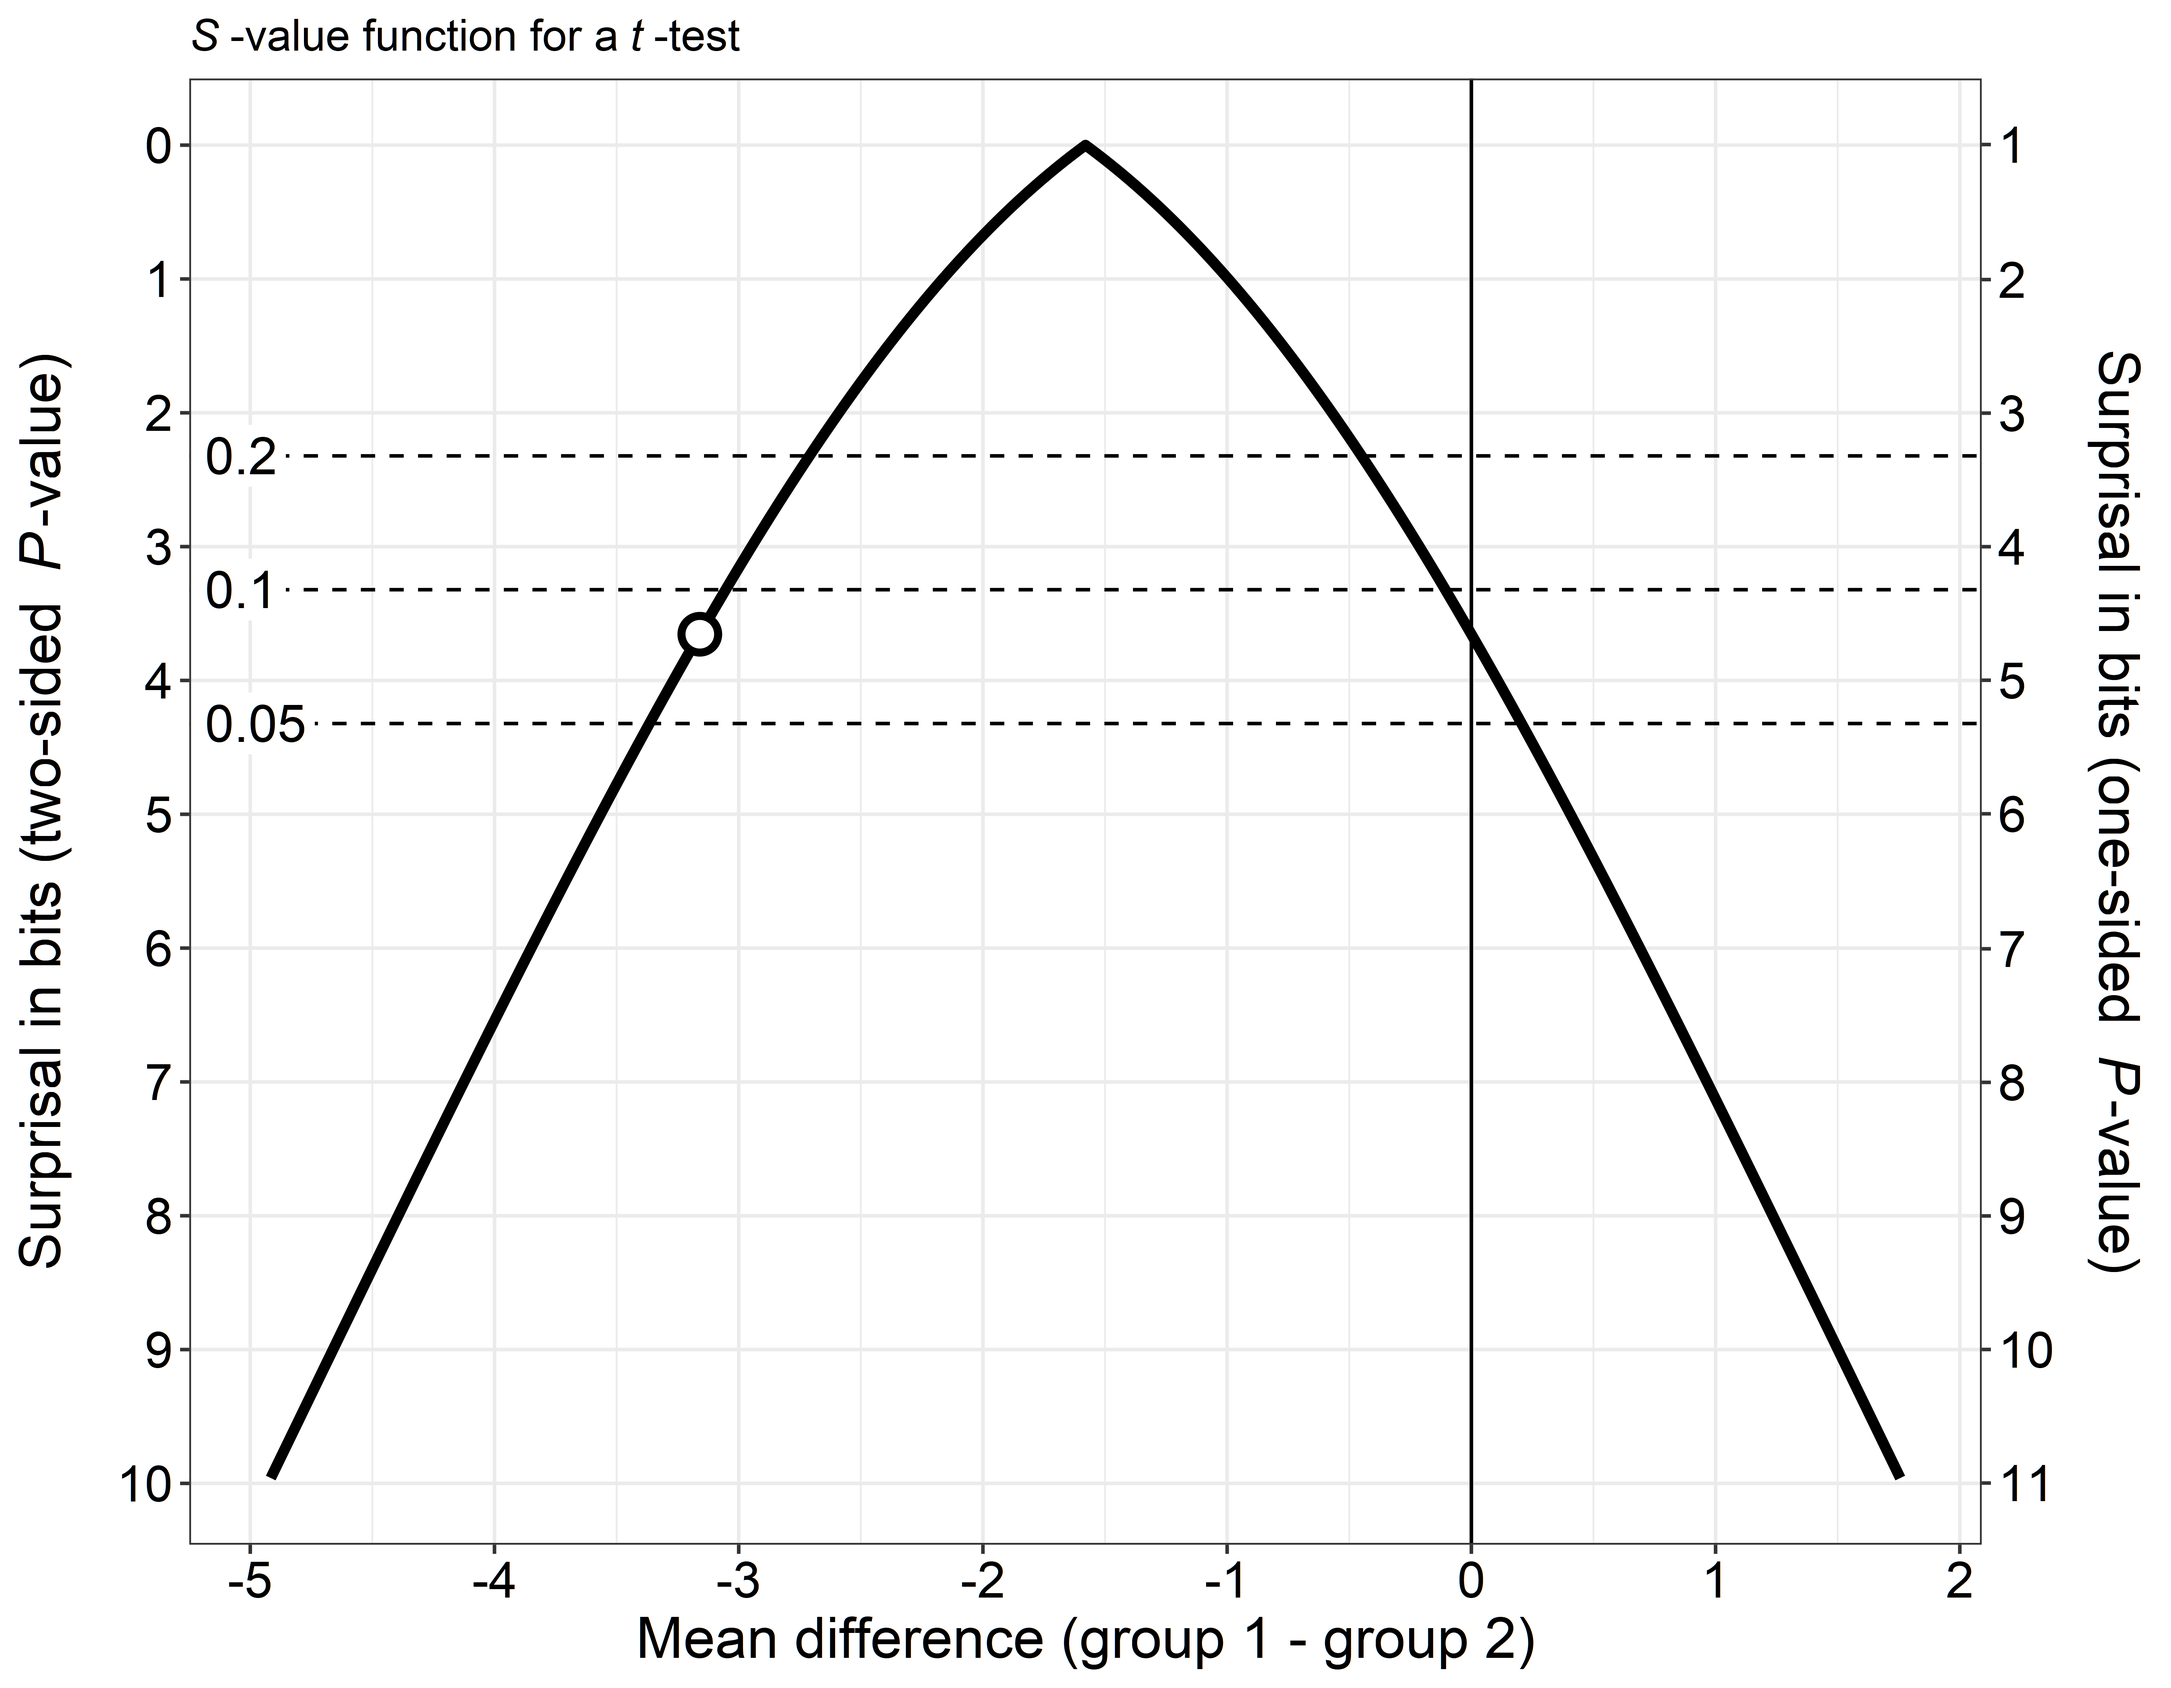
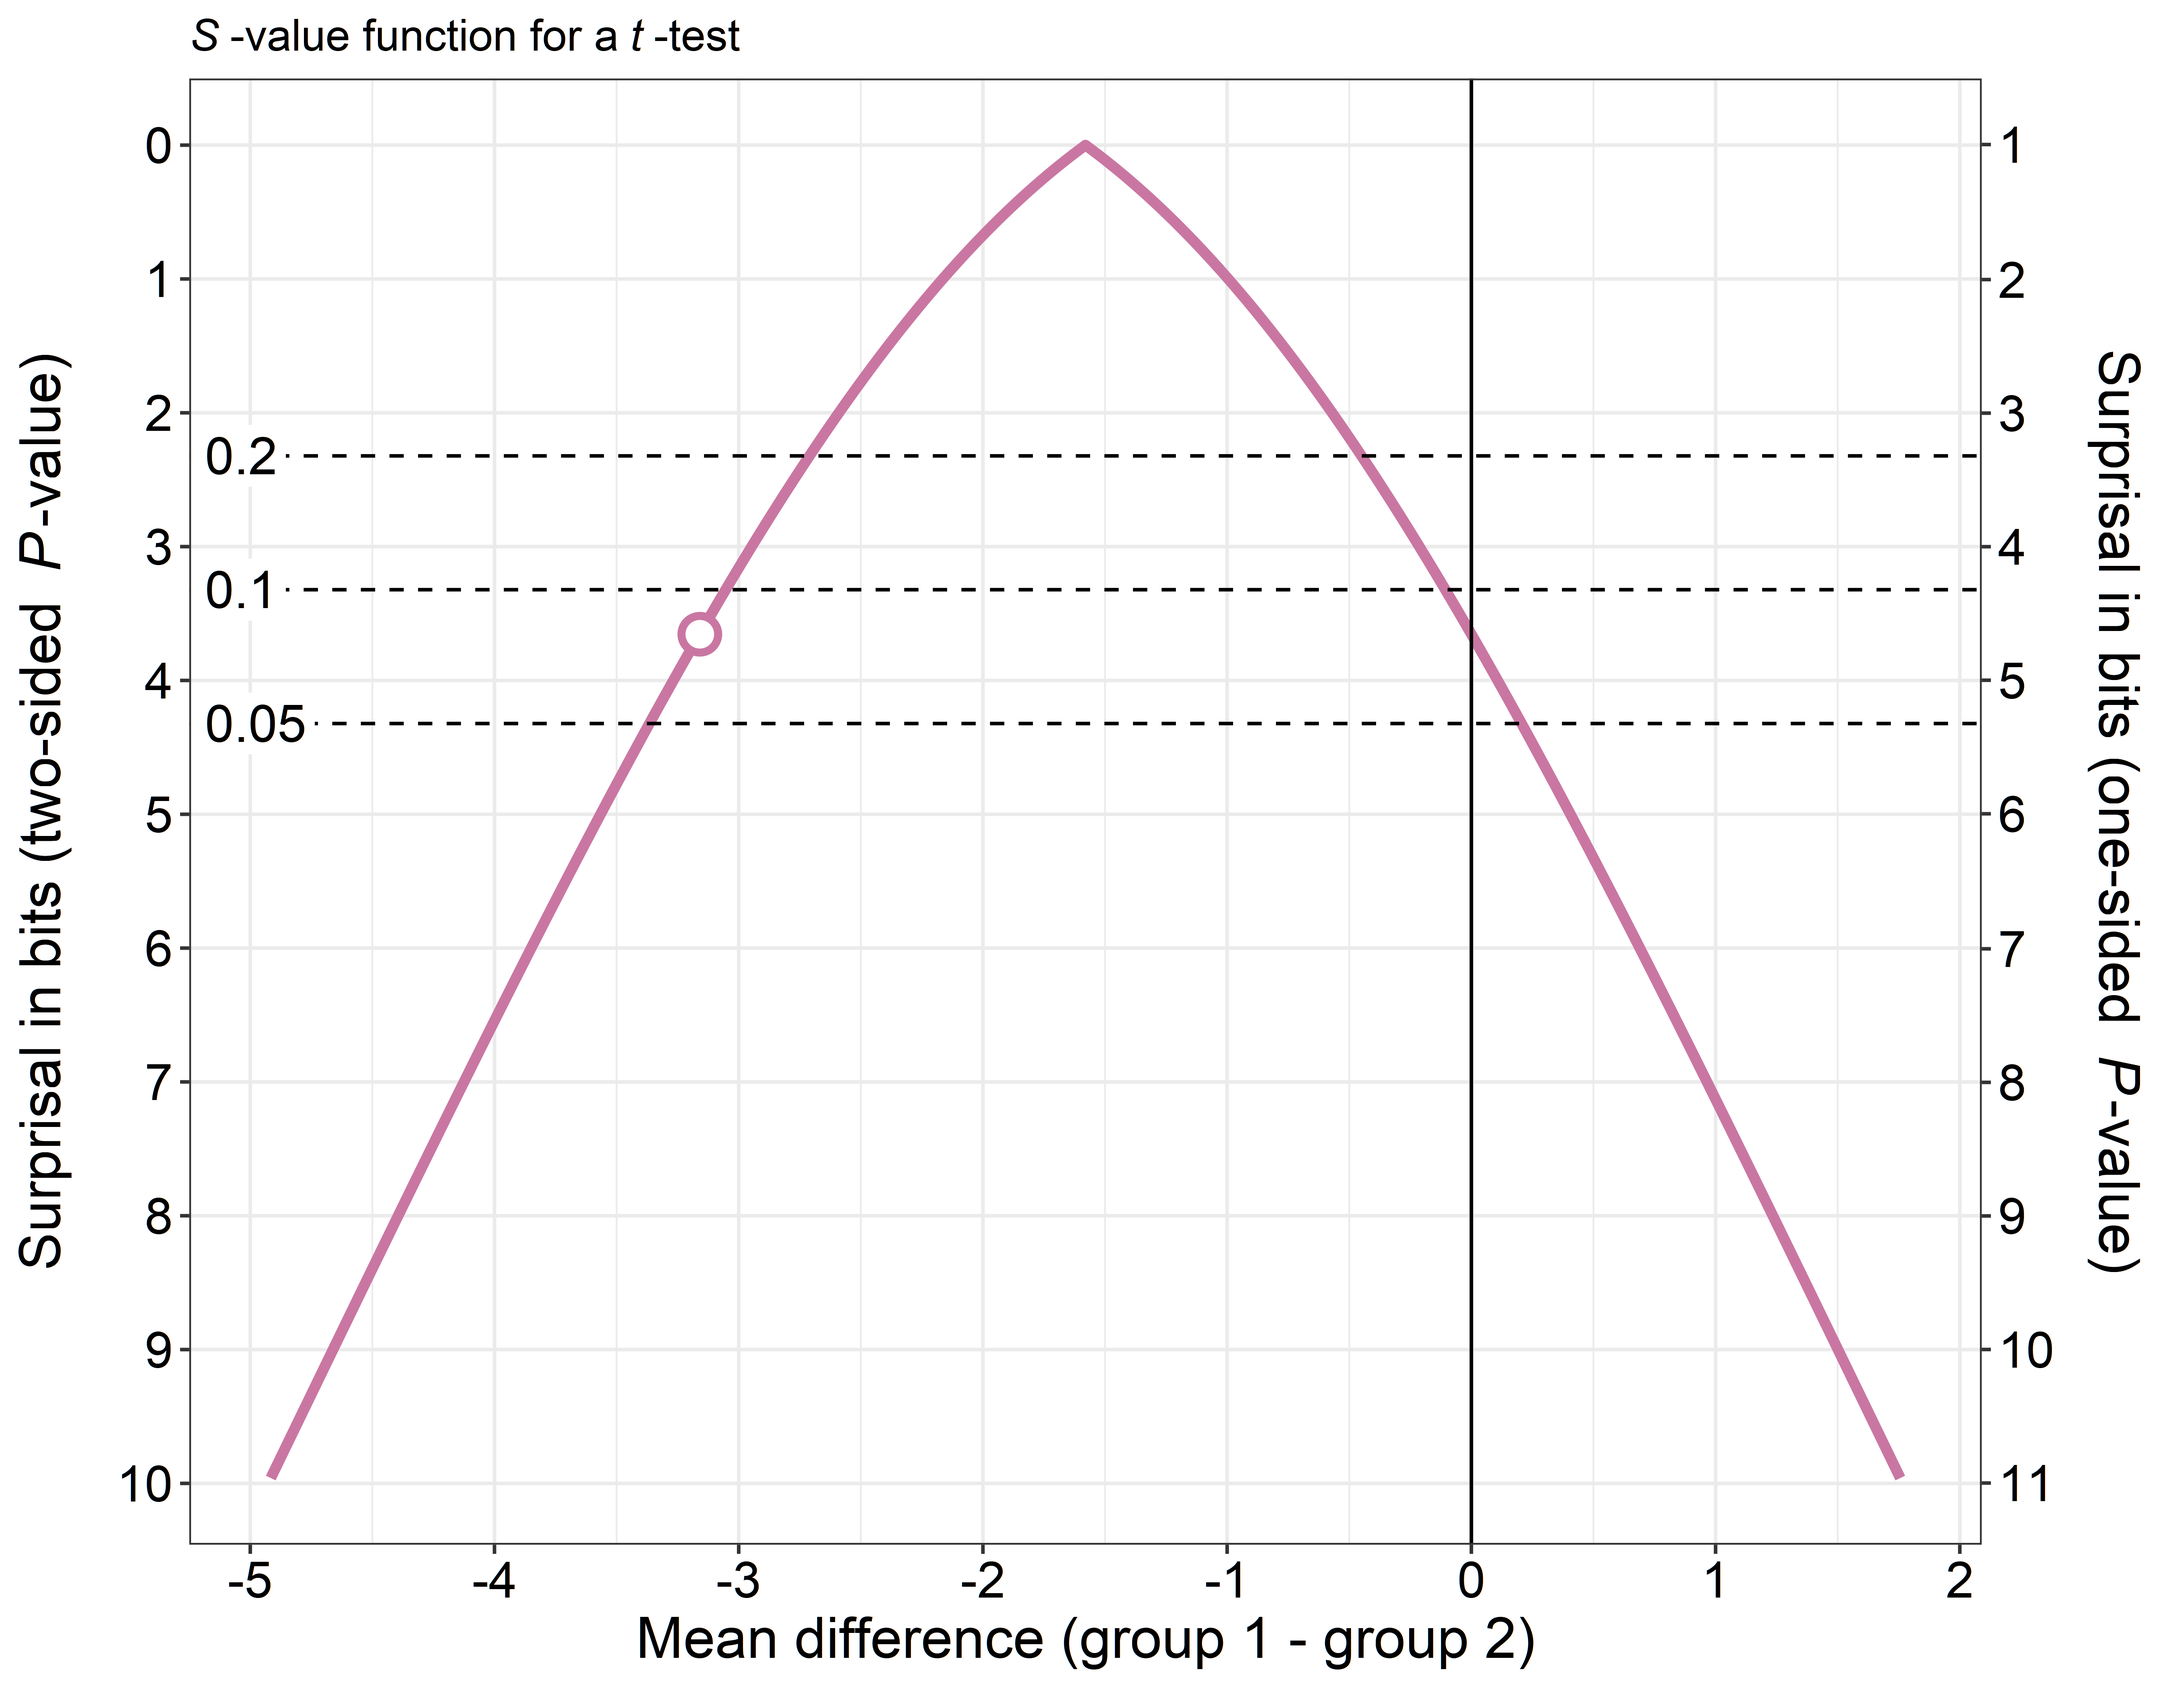
Updated README: Changed color of the S-value curve.

diff --git a/README.md b/README.md
@@ -2,7 +2,7 @@ pvaluefunctions
 ================
 
   - [*P*-value functions
-    <img src="man/figures/logo2.svg" align="right" width="120" />](#p-value-functions)
+    <img src="man/figures/logo3.svg" align="right" width="120" />](#p-value-functions)
       - [Accompanying paper](#accompanying-paper)
           - [Recreation of the figures in the
             paper](#recreation-of-the-figures-in-the-paper)
@@ -17,7 +17,7 @@ pvaluefunctions
 
 <!-- README.md is generated from README.Rmd. Please edit that file -->
 
-# *P*-value functions <img src="man/figures/logo2.svg" align="right" width="120" />
+# *P*-value functions <img src="man/figures/logo3.svg" align="right" width="120" />
 
 [![CRAN\_Status\_Badge](http://www.r-pkg.org/badges/version/pvaluefunctions)](https://cran.r-project.org/package=pvaluefunctions)
 [![downloads](https://cranlogs.r-pkg.org/badges/pvaluefunctions)](https://cran.r-project.org/package=pvaluefunctions)
@@ -62,37 +62,18 @@ using `library(pvaluefunctions)`.
 The function depends on the following R packages, which need to be
 installed beforehand:
 
-  - ggplot2
-  - scales
-  - zipfR
+  - [ggplot2](https://cran.r-project.org/package=ggplot2)
+  - [scales](https://cran.r-project.org/package=scales)
+  - [zipfR](https://cran.r-project.org/package=zipfR)
+  - [pracma](https://cran.r-project.org/package=pracma)
 
-Use the command `install.packages(c("ggplot2", "scales", "zipfR"))` in R
-to install those packages.
-
-<!-- ### Important information! -->
-
-<!-- The newest version of [ggplot2 (3.1.1)](https://CRAN.R-project.org/package=ggplot2) has a [bug](https://github.com/tidyverse/ggplot2/issues/2978) in `sec_axis` that will lead to the secondary y-axis being labelled wrongly. -->
-
-<!-- It is therefore recommended that you install the developmental version of ggplot2 until the bug has been fixed. You can install the developmental version using the following command (after installing the [`devtools`](https://CRAN.R-project.org/package=devtools) package): `devtools::install_github("tidyverse/ggplot2")` -->
-
-<!-- To see what version of ggplot2 has been used to create the plots on this page, see the [Session info]. -->
-
-<!-- This warning will be deleted upon the release of a new version of ggplot2 that fixes the bug. -->
+Use the command `install.packages(c("ggplot2", "scales", "zipfR",
+"pracma"))` in R to install those packages.
 
 ## Examples
 
 For more examples and code, see the
 [vignette](https://CRAN.R-project.org/package=pvaluefunctions/vignettes/pvaluefun.html).
-
-    #> 
-    #>          checking for file 'C:\Users\denis\AppData\Local\Temp\RtmpsHRbnW\remotes21442844ecf\DInfanger-pvaluefunctions-a87336c/DESCRIPTION' ...  v  checking for file 'C:\Users\denis\AppData\Local\Temp\RtmpsHRbnW\remotes21442844ecf\DInfanger-pvaluefunctions-a87336c/DESCRIPTION' (380ms)
-    #>       -  preparing 'pvaluefunctions':
-    #>    checking DESCRIPTION meta-information ...     checking DESCRIPTION meta-information ...   v  checking DESCRIPTION meta-information
-    #>       -  checking for LF line-endings in source and make files and shell scripts
-    #>   -  checking for empty or unneeded directories
-    #>       -  building 'pvaluefunctions_1.6.0.tar.gz'
-    #>      
-    #> 
 
 <img src="man/figures/README-ttest_pval-1.png" width="70%" style="display: block; margin: auto auto auto 0;" />
 
@@ -104,6 +85,10 @@ For more examples and code, see the
 
 Bender R, Berg G, Zeeb H. (2005): Tutorial: using confidence curves in
 medical research. *Biom J.* 47(2): 237-47.
+
+Berrar D (2017): Confidence Curves: an alternative to null hypothesis
+significance testing for the comparison of classifiers. *Mach Learn*
+106:911-949.
 
 Fraser D. A. S. (2019): The *p*-value function and statistical
 inference. *Am Stat,* 73:sup1, 135-147.
@@ -161,20 +146,15 @@ distribution estimator of a parameter: A review. *Internat Statist Rev.*
     #> [1] pvaluefunctions_1.6.0
     #> 
     #> loaded via a namespace (and not attached):
-    #>  [1] Rcpp_1.0.4.6      pillar_1.4.3      compiler_4.0.0    prettyunits_1.1.1
-    #>  [5] remotes_2.1.1     tools_4.0.0       testthat_2.3.2    digest_0.6.25    
-    #>  [9] pkgbuild_1.0.7    pkgload_1.0.2     tibble_3.0.1      lifecycle_0.2.0  
-    #> [13] gtable_0.3.0      evaluate_0.14     memoise_1.1.0     pkgconfig_2.0.3  
-    #> [17] rlang_0.4.5       cli_2.0.2         curl_4.3          yaml_2.2.1       
-    #> [21] xfun_0.13         dplyr_0.8.5       withr_2.2.0       stringr_1.4.0    
-    #> [25] knitr_1.28        vctrs_0.2.4       desc_1.2.0        fs_1.4.1         
-    #> [29] devtools_2.3.0    tidyselect_1.0.0  grid_4.0.0        rprojroot_1.3-2  
-    #> [33] glue_1.4.0        R6_2.4.1          processx_3.4.2    fansi_0.4.1      
-    #> [37] rmarkdown_2.1     sessioninfo_1.1.1 farver_2.0.3      purrr_0.3.4      
-    #> [41] ggplot2_3.3.0     callr_3.4.3       magrittr_1.5      scales_1.1.0     
-    #> [45] backports_1.1.6   ps_1.3.2          ellipsis_0.3.0    htmltools_0.4.0  
-    #> [49] usethis_1.6.1     assertthat_0.2.1  colorspace_1.4-1  stringi_1.4.6    
-    #> [53] munsell_0.5.0     crayon_1.3.4
+    #>  [1] Rcpp_1.0.4.6     knitr_1.28       magrittr_1.5     tidyselect_1.0.0
+    #>  [5] munsell_0.5.0    colorspace_1.4-1 R6_2.4.1         rlang_0.4.5     
+    #>  [9] dplyr_0.8.5      stringr_1.4.0    tools_4.0.0      grid_4.0.0      
+    #> [13] gtable_0.3.0     xfun_0.13        htmltools_0.4.0  ellipsis_0.3.0  
+    #> [17] assertthat_0.2.1 yaml_2.2.1       digest_0.6.25    tibble_3.0.1    
+    #> [21] lifecycle_0.2.0  crayon_1.3.4     farver_2.0.3     purrr_0.3.4     
+    #> [25] ggplot2_3.3.0    vctrs_0.2.4      glue_1.4.0       evaluate_0.14   
+    #> [29] rmarkdown_2.1    pracma_2.2.9     stringi_1.4.6    compiler_4.0.0  
+    #> [33] pillar_1.4.3     scales_1.1.0     pkgconfig_2.0.3
 
 ## License
 
